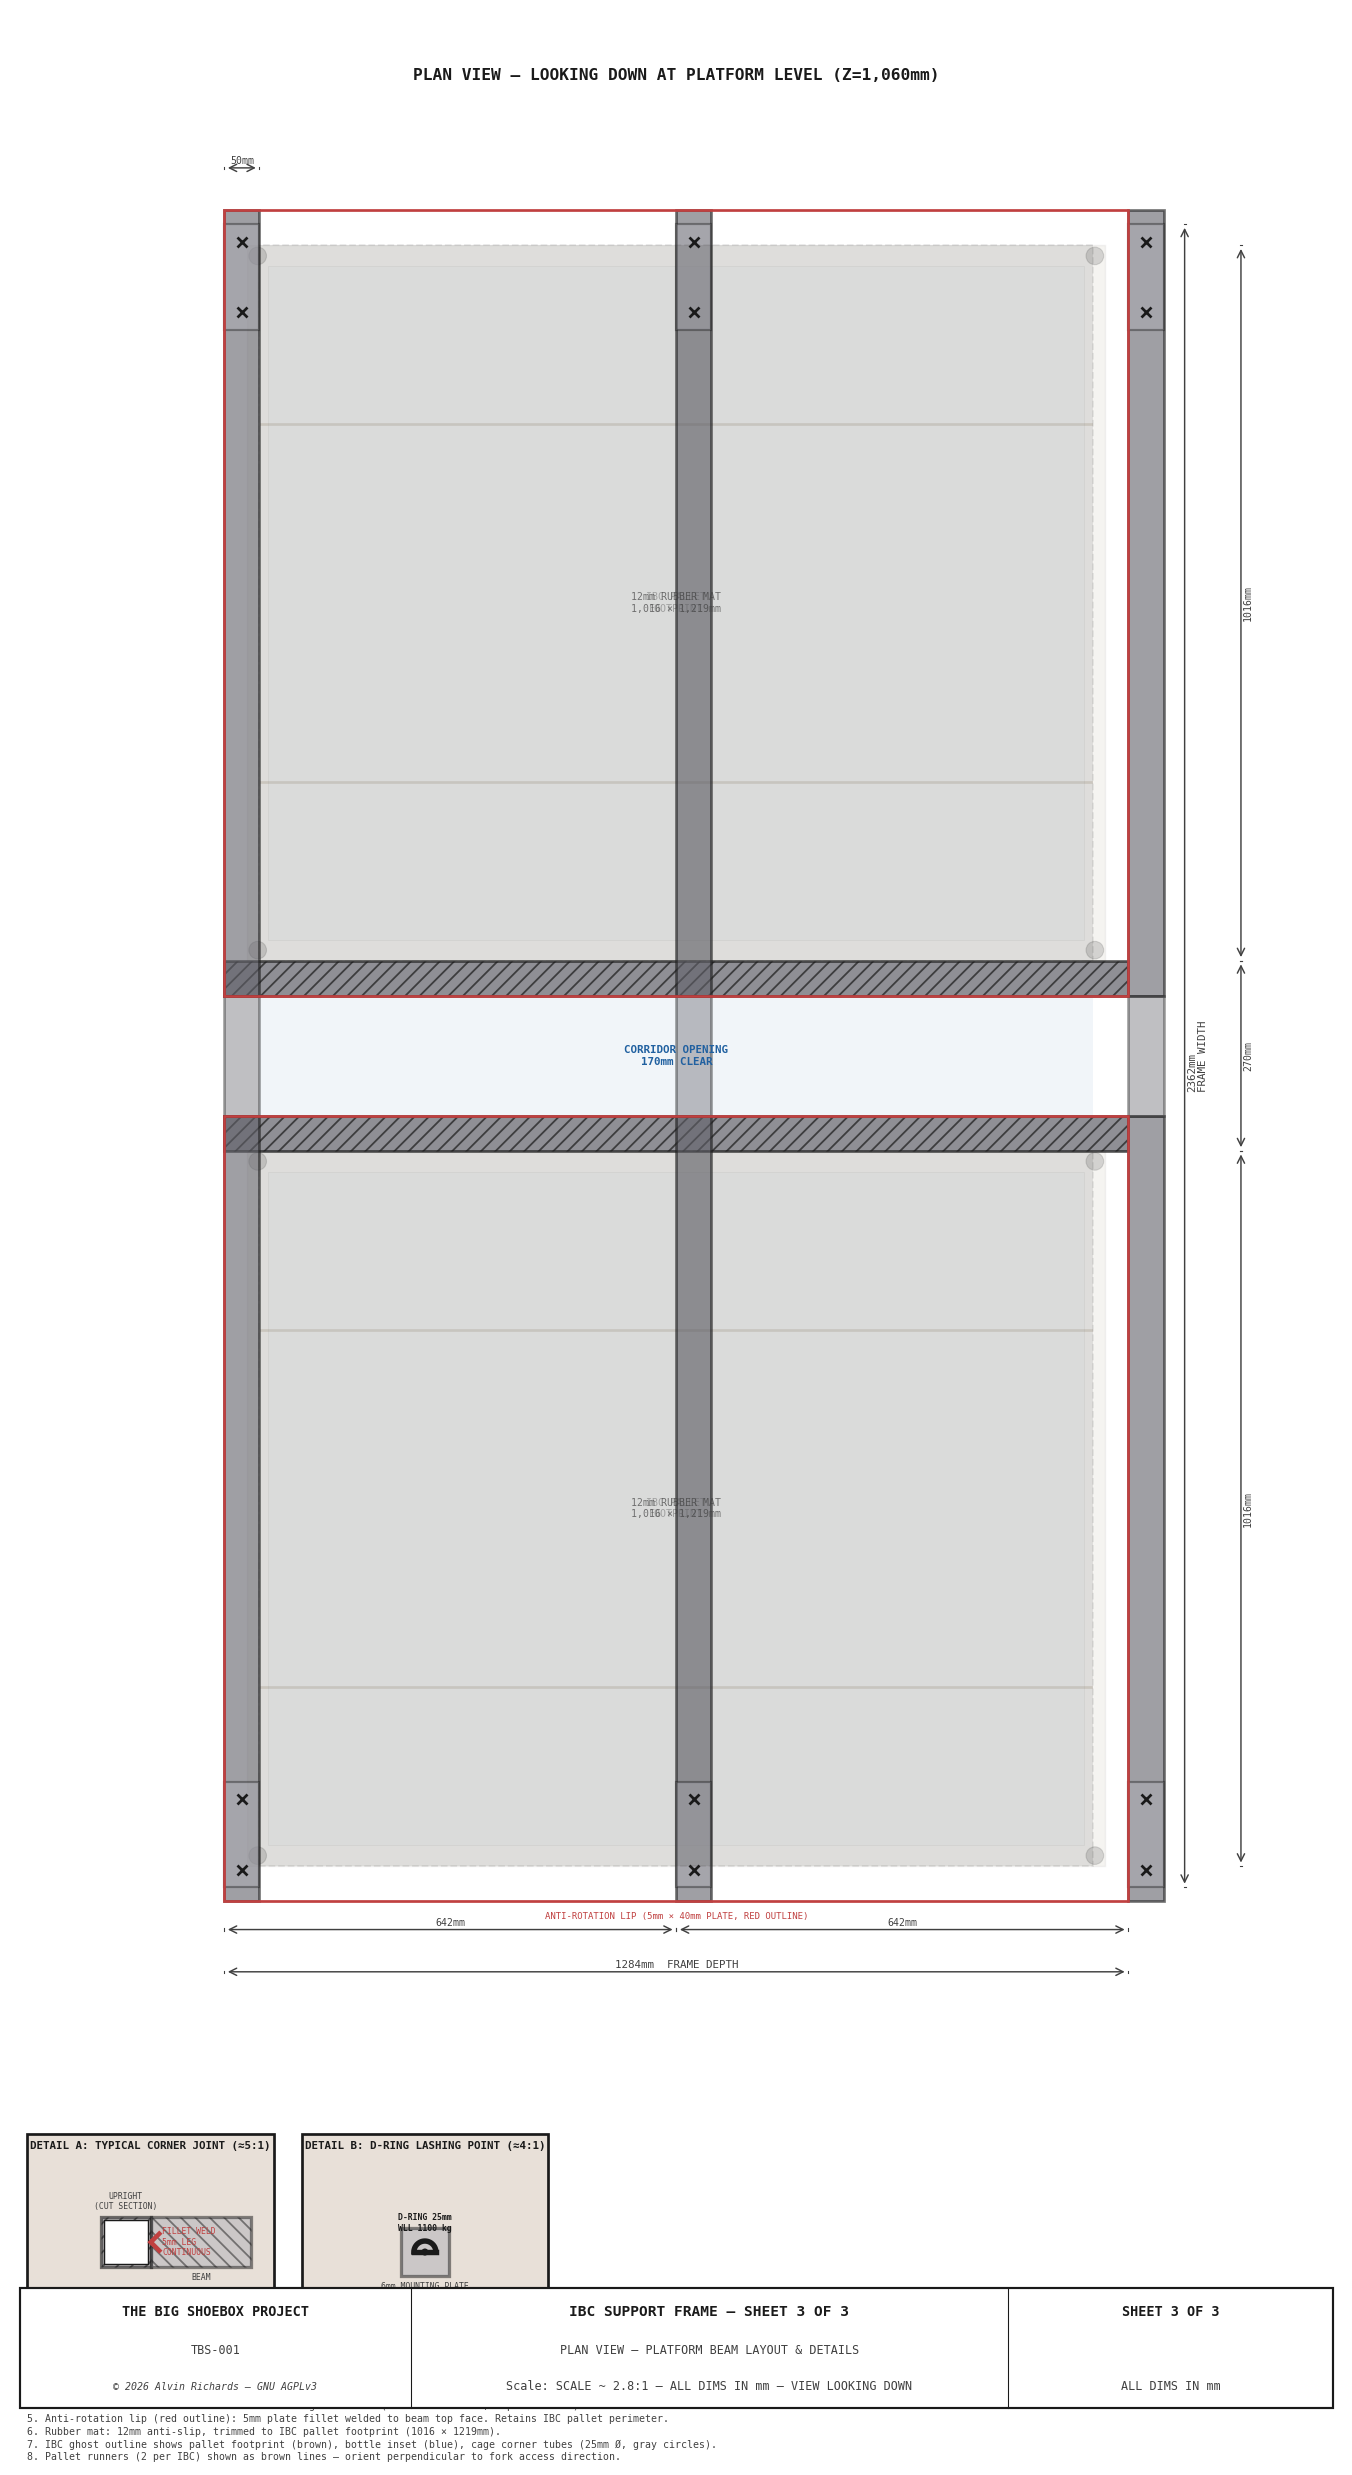
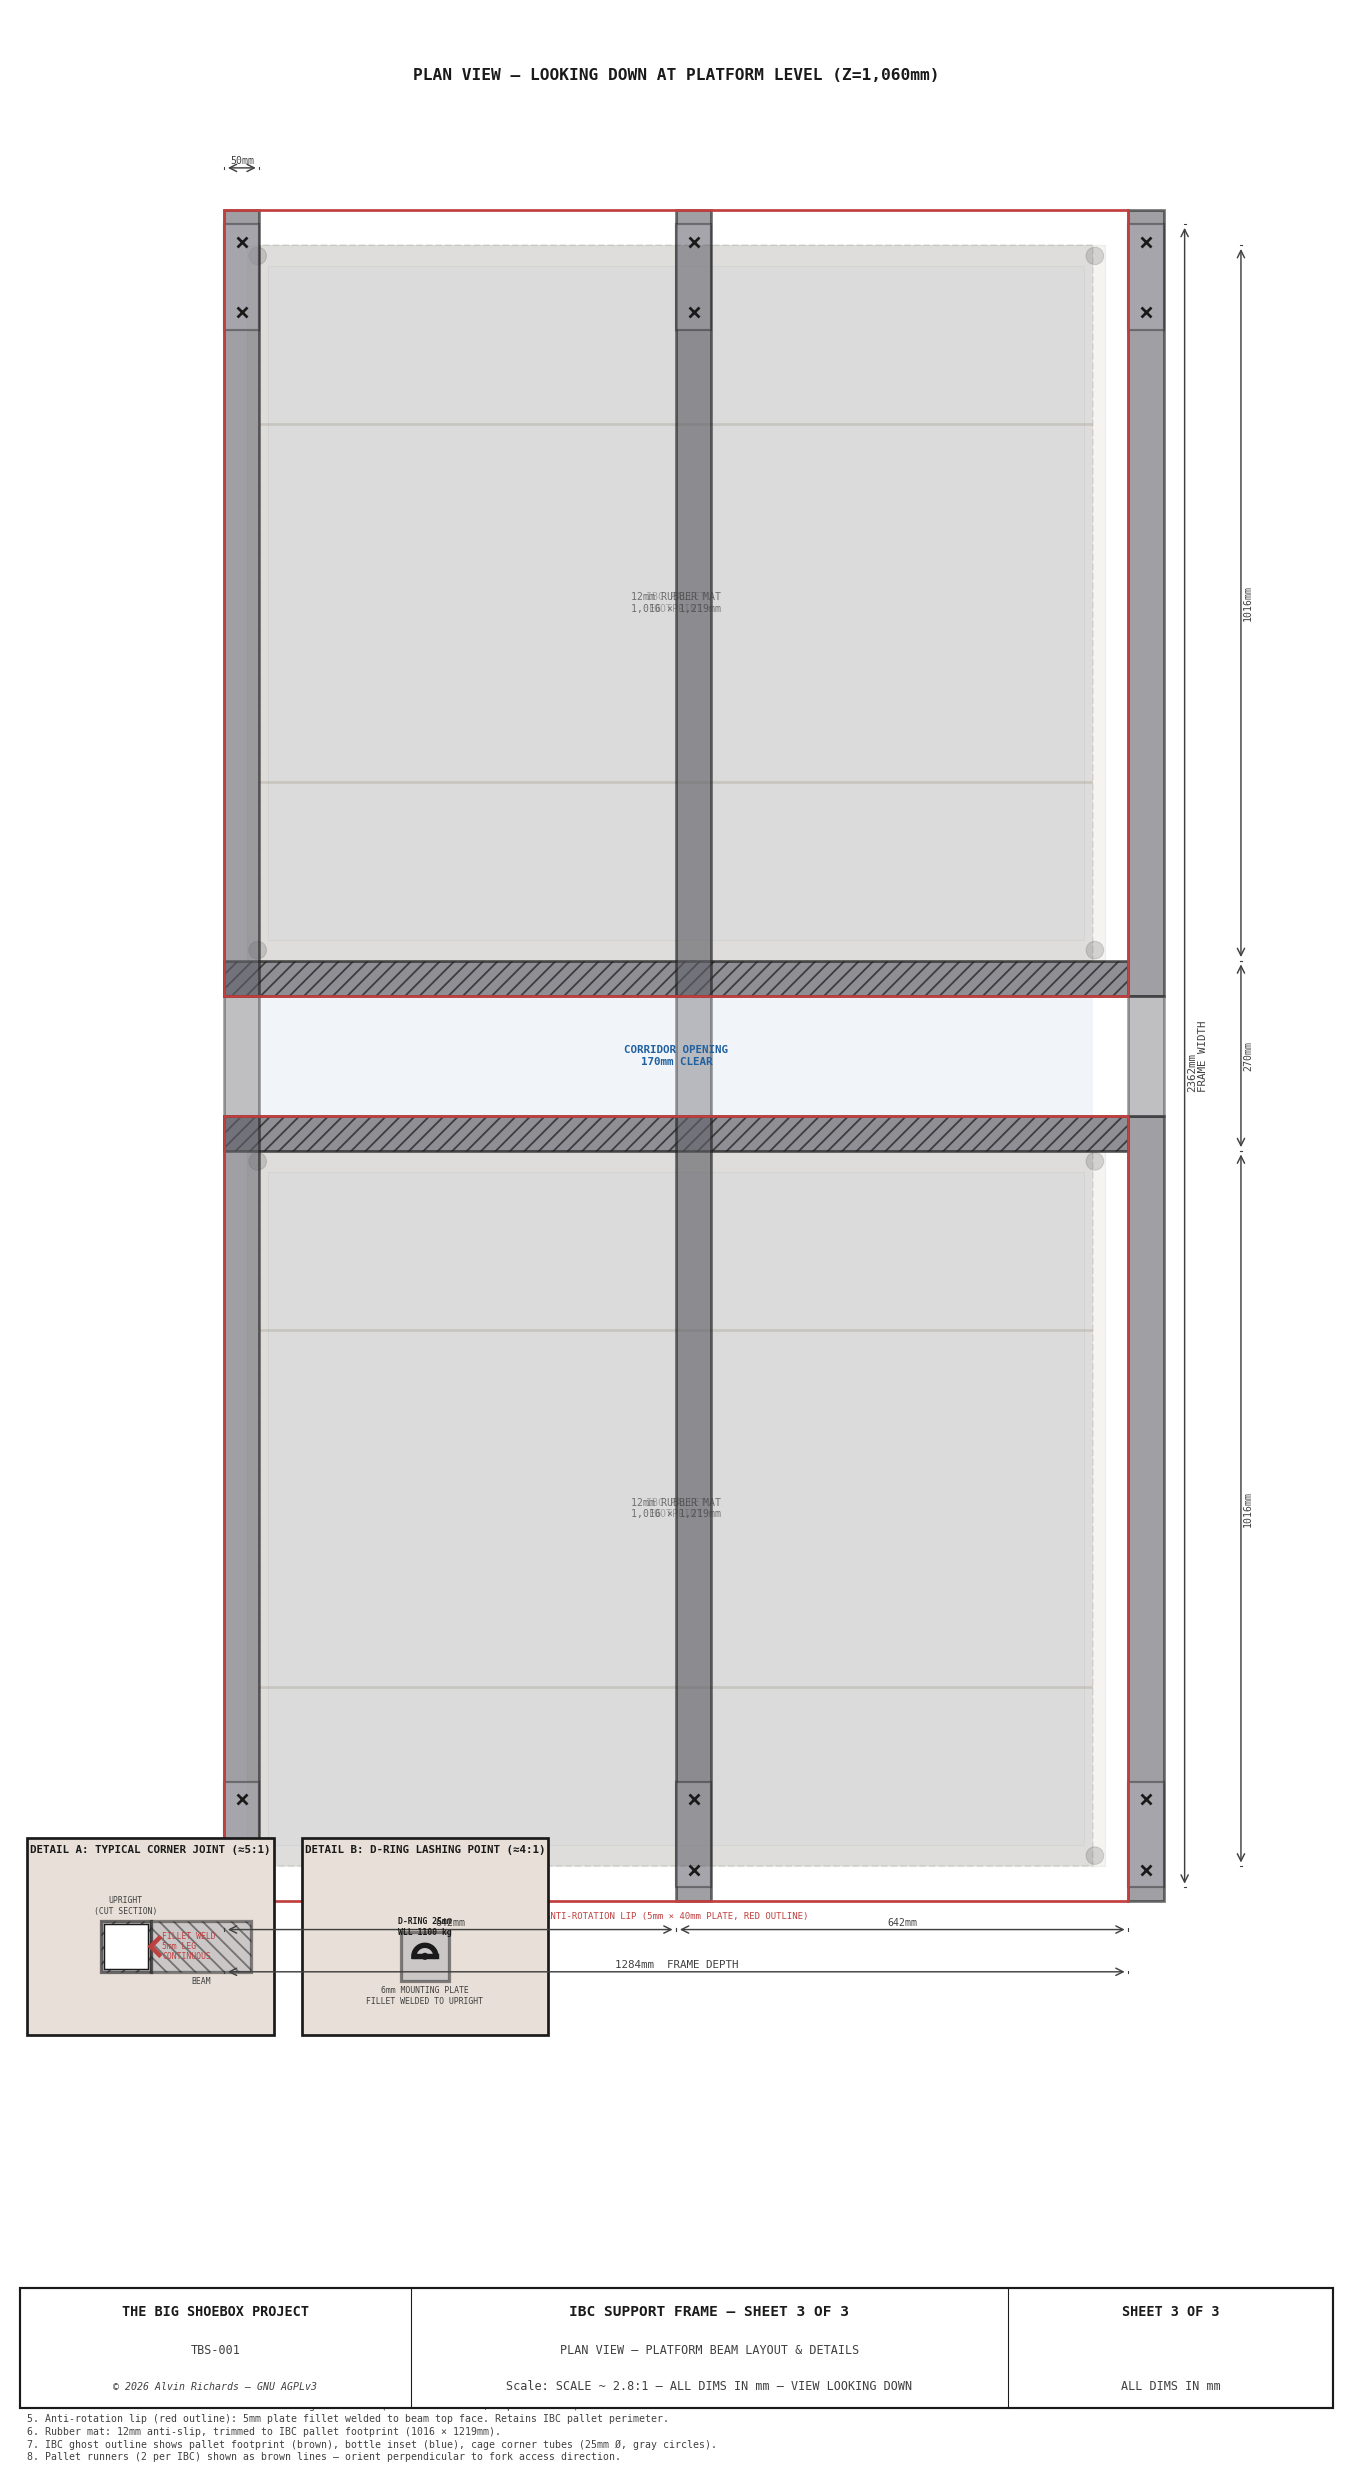
Move detail insets A and B up 15% on IBC frame sheet 3

Changed region(s): [[0.0, 0.7156, 0.4038, 0.9333]]

diff --git a/generate_ibc_frame_drawing.py b/generate_ibc_frame_drawing.py
@@ -1067,7 +1067,7 @@ def sheet3():
 
     # ── Detail inset: Corner Joint ──────────────────────────────────────────
     det_x = px(X_LO + 20)
-    det_y = py(YD_LO + 120)
+    det_y = py(YD_LO + 540)
     det_w = px(350)
     det_h = py(280)
     ax.add_patch(Rectangle((det_x, det_y), det_w, det_h,
